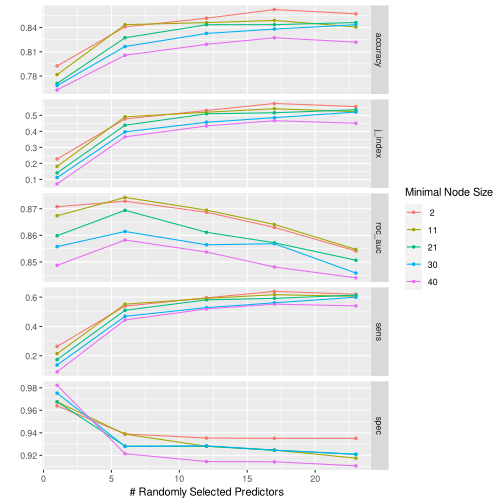
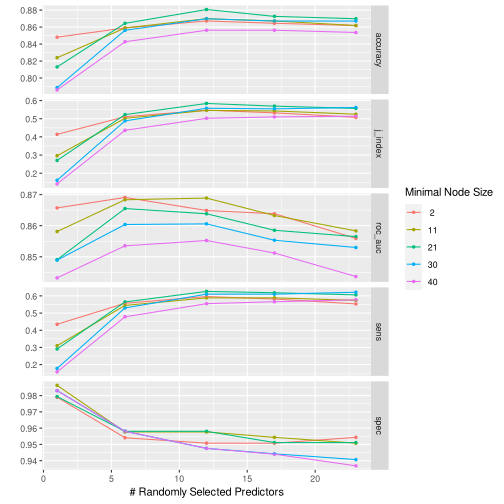
fixed some old files for new data.feather
- visualization/map_plots.Rmd
- tidymodel.r
- random_forest.Rmd, now legit reproducible

Changed region(s): [[0.0298, 0.0, 0.7143, 0.9226], [0.0298, 0.5655, 0.0893, 0.6548]]

diff --git a/random_forest.md b/random_forest.md
@@ -12,7 +12,6 @@ library(magrittr)
 library(skimr)
 library(vip)
 per <- read_feather("data/simulation_data/all_persons.feather")
-set.seed(123)
 ```
 
 Compute some summary statistic for each client.
@@ -47,25 +46,20 @@ zip_data <-
     AREALAND = NULL,
     AREA = NULL,
     HU = NULL,
-    `Percent adults fully vaccinated against COVID-19 (as of 6/10/21)` = NULL,
+    vaccinated = NULL,
     per_lib = NULL,
     per_green = NULL,
     per_other = NULL,
     per_rep = NULL,
-    Unemployment_rate_2020 = NULL,
-    PCTPOVALL_2019 = NULL,
-    `Deaths involving COVID-19` = NULL,
-    `Deaths from All Causes` = NULL
+    unempl_2020 = NULL,
+    poverty = NULL,
+    deaths_covid = NULL,
+    deaths_all = NULL
   ) %>%
   rename(
-    nohs = `less than high school`,
-    hs = `high school`,
-    unemp = Unemployment_rate_2019,
-    hes = `Estimated hesitant`,
-    hes_uns = `Estimated hesitant or unsure`,
-    str_hes = `Estimated strongly hesitant`,
-    svi = `Social Vulnerability Index (SVI)`,
-    cvac = `CVAC level of concern for vaccination rollout`,
+    unemp = unempl_2019,
+    hes_uns = hes_unsure,
+    str_hes = strong_hes,
     income = Median_Household_Income_2019
   )
 ```
@@ -78,14 +72,15 @@ clients %>%
 ```
 
 ```
-## # A tibble: 5 x 1
+## # A tibble: 6 x 1
 ##   zip3 
 ##   <chr>
 ## 1 969  
 ## 2 093  
 ## 3 732  
 ## 4 872  
-## 5 004
+## 5 004  
+## 6 202
 ```
 These correspond to the following areas
 
@@ -96,12 +91,14 @@ ZIP3 | Area       |
 732  | Not in use |
 872  | Not in use |
 004  | Not in use |
+202  | Washington DC, Government 1 |
 
-We ignore clients with these zip codes.
+We ignore clients with these zip codes. There are also two clients in DC for which we're missing election data. We will ignore those as well.
 
 ```r
 clients %<>%
-  inner_join(zip_data, by = "zip3")
+  inner_join(zip_data, by = "zip3") %>%
+  drop_na()
 ```
 
 We now have our full dataset. Behold!
@@ -116,7 +113,7 @@ Table: Data summary
 |                         |        |
 |:------------------------|:-------|
 |Name                     |clients |
-|Number of rows           |495     |
+|Number of rows           |492     |
 |Number of columns        |28      |
 |_______________________  |        |
 |Column type frequency:   |        |
@@ -131,51 +128,51 @@ Table: Data summary
 
 |skim_variable | n_missing| complete_rate| min| max| empty| n_unique| whitespace|
 |:-------------|---------:|-------------:|---:|---:|-----:|--------:|----------:|
-|client        |         0|             1|   1|   3|     0|      495|          0|
-|zip3          |         0|             1|   3|   3|     0|      224|          0|
+|client        |         0|             1|   1|   3|     0|      492|          0|
+|zip3          |         0|             1|   3|   3|     0|      222|          0|
 
 
 **Variable type: factor**
 
 |skim_variable | n_missing| complete_rate|ordered | n_unique|top_counts        |
 |:-------------|---------:|-------------:|:-------|--------:|:-----------------|
-|adverse       |         0|             1|FALSE   |        2|TRU: 449, FAL: 46 |
+|adverse       |         0|             1|FALSE   |        2|TRU: 447, FAL: 45 |
 
 
 **Variable type: numeric**
 
 |skim_variable   | n_missing| complete_rate|         mean|           sd|         p0|          p25|          p50|          p75|         p100|hist  |
 |:---------------|---------:|-------------:|------------:|------------:|----------:|------------:|------------:|------------:|------------:|:-----|
-|ae_2020         |         0|             1|        15.04|        27.39|       0.00|         2.98|         6.46|        14.03| 2.329000e+02|▇▁▁▁▁ |
-|size            |         0|             1|      2779.72|      2363.16|      50.00|      1027.00|      2111.00|      3958.50| 1.427000e+04|▇▃▁▁▁ |
-|volume          |         0|             1| 432334228.18| 405619498.04| 6235075.00| 152306800.00| 334370375.00| 586055025.00| 4.350904e+09|▇▁▁▁▁ |
+|ae_2020         |         0|             1|        15.08|        27.46|       0.00|         2.98|         6.46|        14.09| 2.329000e+02|▇▁▁▁▁ |
+|size            |         0|             1|      2783.93|      2368.37|      50.00|      1026.25|      2120.50|      3969.50| 1.427000e+04|▇▃▁▁▁ |
+|volume          |         0|             1| 432951568.75| 406654465.55| 6235075.00| 151797887.50| 335064812.50| 587443900.00| 4.350904e+09|▇▁▁▁▁ |
 |avg_qx          |         0|             1|         0.00|         0.00|       0.00|         0.00|         0.00|         0.00| 0.000000e+00|▁▇▇▂▁ |
-|avg_age         |         0|             1|        41.56|         2.05|      37.68|        40.11|        41.11|        42.49| 4.865000e+01|▃▇▃▁▁ |
-|per_male        |         0|             1|         0.57|         0.10|       0.22|         0.50|         0.57|         0.64| 8.900000e-01|▁▃▇▅▁ |
+|avg_age         |         0|             1|        41.56|         2.05|      37.68|        40.12|        41.11|        42.49| 4.865000e+01|▃▇▃▁▁ |
+|per_male        |         0|             1|         0.57|         0.10|       0.22|         0.50|         0.56|         0.64| 8.900000e-01|▁▃▇▅▁ |
 |per_blue_collar |         0|             1|         1.00|         0.00|       1.00|         1.00|         1.00|         1.00| 1.000000e+00|▁▁▇▁▁ |
-|expected        |         0|             1|   1075634.02|   1054075.28|   11604.50|    353219.92|    832197.99|   1436637.06| 1.189955e+07|▇▁▁▁▁ |
-|actual_2020     |         0|             1|  15378942.63|  44643400.61|       0.00|   1962875.00|   4556125.00|  13950250.00| 5.232112e+08|▇▁▁▁▁ |
-|nohs            |         0|             1|        11.16|         3.78|       0.00|         8.44|        10.78|        12.88| 2.165000e+01|▁▅▇▂▂ |
-|hs              |         0|             1|        23.67|         7.10|       0.00|        18.30|        23.10|        27.50| 4.680000e+01|▁▃▇▃▁ |
-|college         |         0|             1|        28.34|         5.05|       0.00|        25.60|        28.58|        31.55| 3.980000e+01|▁▁▂▇▃ |
-|bachelor        |         0|             1|        36.64|        10.61|       0.00|        29.98|        35.36|        43.04| 6.130000e+01|▁▂▇▆▃ |
-|R_Birth         |         0|             1|        11.30|         1.28|       0.00|        10.50|        11.20|        12.00| 1.551000e+01|▁▁▁▇▂ |
-|R_death         |         0|             1|         8.12|         1.90|       0.00|         6.80|         7.59|         9.10| 1.401000e+01|▁▁▇▃▁ |
-|unemp           |         0|             1|         3.43|         0.89|       0.00|         2.80|         3.31|         3.89| 6.690000e+00|▁▃▇▂▁ |
-|per_dem         |         0|             1|         0.57|         0.17|       0.00|         0.46|         0.58|         0.71| 8.600000e-01|▁▂▇▇▇ |
-|hes             |         0|             1|         0.09|         0.04|       0.00|         0.06|         0.07|         0.11| 2.600000e-01|▃▇▃▁▁ |
-|hes_uns         |         0|             1|         0.13|         0.05|       0.00|         0.10|         0.12|         0.17| 3.100000e-01|▁▇▅▂▁ |
-|str_hes         |         0|             1|         0.05|         0.03|       0.00|         0.03|         0.04|         0.07| 1.800000e-01|▆▇▅▁▁ |
-|svi             |         0|             1|         0.46|         0.19|       0.00|         0.33|         0.44|         0.59| 9.200000e-01|▂▅▇▃▂ |
-|cvac            |         0|             1|         0.42|         0.21|       0.00|         0.24|         0.41|         0.53| 9.400000e-01|▃▃▇▃▁ |
-|income          |         0|             1|     78940.42|     24119.84|       0.00|     62130.76|     73570.69|     85137.47| 1.352340e+05|▁▁▇▂▂ |
-|POP             |         0|             1|    783315.84|    558192.14|       0.00|    344984.00|    760027.00|    974040.00| 2.906700e+06|▇▇▂▁▁ |
+|expected        |         0|             1|   1076643.68|   1056824.25|   11604.50|    350329.91|    831644.68|   1439648.44| 1.189955e+07|▇▁▁▁▁ |
+|actual_2020     |         0|             1|  15432043.75|  44771997.48|       0.00|   1963387.50|   4525375.00|  13923600.00| 5.232112e+08|▇▁▁▁▁ |
+|nohs            |         0|             1|        11.20|         3.75|       4.00|         8.44|        10.78|        12.90| 2.165000e+01|▂▇▅▁▂ |
+|hs              |         0|             1|        23.75|         7.02|      12.10|        18.90|        23.10|        27.50| 4.680000e+01|▅▇▅▂▁ |
+|college         |         0|             1|        28.45|         4.83|      13.50|        25.60|        28.58|        31.56| 3.980000e+01|▁▃▇▆▂ |
+|bachelor        |         0|             1|        36.62|        10.42|      14.07|        30.00|        35.36|        43.04| 6.130000e+01|▂▇▇▆▂ |
+|R_birth         |         0|             1|        11.31|         1.17|       8.30|        10.50|        11.20|        12.00| 1.551000e+01|▁▇▇▂▁ |
+|R_death         |         0|             1|         8.13|         1.87|       4.69|         6.80|         7.59|         9.13| 1.401000e+01|▃▇▃▂▁ |
+|unemp           |         0|             1|         3.43|         0.87|       2.10|         2.80|         3.31|         3.89| 6.690000e+00|▆▇▃▁▁ |
+|per_dem         |         0|             1|         0.57|         0.16|       0.16|         0.46|         0.58|         0.71| 8.600000e-01|▂▅▇▇▆ |
+|hes             |         0|             1|         0.09|         0.04|       0.04|         0.06|         0.07|         0.11| 2.600000e-01|▇▃▂▁▁ |
+|hes_uns         |         0|             1|         0.13|         0.05|       0.06|         0.10|         0.12|         0.17| 3.100000e-01|▇▆▅▁▁ |
+|str_hes         |         0|             1|         0.05|         0.03|       0.02|         0.03|         0.04|         0.07| 1.800000e-01|▇▅▂▁▁ |
+|svi             |         0|             1|         0.46|         0.19|       0.04|         0.33|         0.44|         0.59| 9.200000e-01|▂▆▇▃▂ |
+|cvac            |         0|             1|         0.42|         0.21|       0.02|         0.24|         0.41|         0.53| 9.400000e-01|▃▅▇▃▁ |
+|income          |         0|             1|     79056.02|     23916.16|   38621.49|     62130.76|     73570.69|     85137.47| 1.352340e+05|▃▇▅▂▂ |
+|POP             |         0|             1|    785665.87|    558640.36|   33245.00|    346048.00|    771280.00|    974040.00| 2.906700e+06|▇▇▂▁▁ |
 |density         |         0|             1|         0.00|         0.00|       0.00|         0.00|         0.00|         0.00| 3.000000e-02|▇▁▁▁▁ |
 
 ## First model
 We will use a random forest using the tidymodels framework.
 
-We start by creating a recipe. We won't use zip3, client ID, actual claims, or ae_2020 as predictors.
+We start by creating a recipe. We won't use zip3, client ID, actual claims, or ae_2020 as predictors. Also, we don't have election data on DC, so we remove those.
 
 ```r
 ranger_recipe <-
@@ -205,6 +202,7 @@ ranger_workflow <-
 Create an initial test-train split
 
 ```r
+set.seed(1111)
 init_split <-
   clients %>%
   initial_split(strata = adverse)
@@ -218,7 +216,7 @@ clients_test %>% count(adverse)
 ##   adverse     n
 ##   <fct>   <int>
 ## 1 FALSE      14
-## 2 TRUE      110
+## 2 TRUE      109
 ```
 
 ```r
@@ -230,8 +228,8 @@ clients_train %>% count(adverse)
 ## # A tibble: 2 x 2
 ##   adverse     n
 ##   <fct>   <int>
-## 1 FALSE      32
-## 2 TRUE      339
+## 1 FALSE      31
+## 2 TRUE      338
 ```
 
 Train the workflow
@@ -254,15 +252,15 @@ Compute the confusion matrix
 
 ```r
 predictions %>%
-  bind_cols(clients_test %>% select(adverse)) %>%
+  bind_cols(clients_test %>% filter(!is.na(per_dem)) %>% select(adverse)) %>%
   conf_mat(adverse, .pred_class)
 ```
 
 ```
 ##           Truth
 ## Prediction FALSE TRUE
-##      FALSE     1    0
-##      TRUE     13  110
+##      FALSE     2    0
+##      TRUE     12  109
 ```
 
 It looks like the the model performs well, but it's basically predicting that all companies will have adverse deaths.
@@ -284,10 +282,10 @@ ranger_last_fit %>% collect_metrics()
 ## # A tibble: 4 x 4
 ##   .metric .estimator .estimate .config             
 ##   <chr>   <chr>          <dbl> <chr>               
-## 1 sens    binary        0.0714 Preprocessor1_Model1
-## 2 spec    binary        1      Preprocessor1_Model1
-## 3 j_index binary        0.0714 Preprocessor1_Model1
-## 4 roc_auc binary        0.910  Preprocessor1_Model1
+## 1 sens    binary         0.143 Preprocessor1_Model1
+## 2 spec    binary         1     Preprocessor1_Model1
+## 3 j_index binary         0.143 Preprocessor1_Model1
+## 4 roc_auc binary         0.872 Preprocessor1_Model1
 ```
 
 ```r
@@ -306,13 +304,13 @@ We will make train the model for more adverse outcomes by using *subsampling*. S
 
 ```r
 library(themis)
+set.seed(222)
 subsample_recipe <-
   ranger_recipe %>%
   step_rose(adverse)
 subsample_workflow <-
   ranger_workflow %>%
   update_recipe(subsample_recipe)
-
 subsample_last_fit <-
   subsample_workflow %>%
   last_fit(
@@ -327,10 +325,10 @@ subsample_last_fit %>% collect_metrics()
 ## # A tibble: 4 x 4
 ##   .metric .estimator .estimate .config             
 ##   <chr>   <chr>          <dbl> <chr>               
-## 1 sens    binary         0.429 Preprocessor1_Model1
-## 2 spec    binary         0.709 Preprocessor1_Model1
-## 3 j_index binary         0.138 Preprocessor1_Model1
-## 4 roc_auc binary         0.619 Preprocessor1_Model1
+## 1 sens    binary         0.571 Preprocessor1_Model1
+## 2 spec    binary         0.899 Preprocessor1_Model1
+## 3 j_index binary         0.471 Preprocessor1_Model1
+## 4 roc_auc binary         0.893 Preprocessor1_Model1
 ```
 
 ```r
@@ -354,7 +352,7 @@ clients$ae_2020 %>% summary()
 
 ```
 ##    Min. 1st Qu.  Median    Mean 3rd Qu.    Max. 
-##   0.000   2.976   6.460  15.036  14.034 232.897
+##   0.000   2.982   6.457  15.084  14.086 232.897
 ```
 
 Let's say that a client experiences adverse deaths if AE > 3, which is about the 1st quartile
@@ -367,6 +365,7 @@ clients %<>%
 We can apply the same workflow as before
 
 ```r
+set.seed(333)
 new_split <-
   clients %>%
   initial_split()
@@ -385,10 +384,10 @@ ranger_last_fit %>% collect_metrics()
 ## # A tibble: 4 x 4
 ##   .metric .estimator .estimate .config             
 ##   <chr>   <chr>          <dbl> <chr>               
-## 1 sens    binary         0.536 Preprocessor1_Model1
-## 2 spec    binary         0.938 Preprocessor1_Model1
-## 3 j_index binary         0.473 Preprocessor1_Model1
-## 4 roc_auc binary         0.872 Preprocessor1_Model1
+## 1 sens    binary         0.538 Preprocessor1_Model1
+## 2 spec    binary         0.959 Preprocessor1_Model1
+## 3 j_index binary         0.497 Preprocessor1_Model1
+## 4 roc_auc binary         0.875 Preprocessor1_Model1
 ```
 
 ```r
@@ -413,12 +412,14 @@ tune_workflow <-
   ranger_workflow %>%
   update_model(tune_spec)
 
+set.seed(444)
 tune_split <- initial_split(clients)
+set.seed(555)
 tune_resamples <-
   vfold_cv(training(tune_split))
 
 param_grid <-
-  grid_regular(mtry(c(1,23)),
+  grid_regular(mtry(c(1, 23)),
                min_n(),
                levels = 5)
 
@@ -435,10 +436,10 @@ autoplot(tune_res)
 
 ![plot of chunk unnamed-chunk-19](figure/unnamed-chunk-19-1.png)
 
-I chose mtry = 17, min_n = 2.
+I chose mtry = 12, min_n = 21.
 
 ```r
-best <- tibble(mtry = 17, min_n = 2)
+best <- tibble(mtry = 12, min_n = 21)
 final_wf <-
   tune_workflow %>%
   finalize_workflow(best)
@@ -458,11 +459,11 @@ final_wf_fit %>%
 ## # A tibble: 5 x 4
 ##   .metric  .estimator .estimate .config             
 ##   <chr>    <chr>          <dbl> <chr>               
-## 1 sens     binary         0.529 Preprocessor1_Model1
-## 2 spec     binary         0.978 Preprocessor1_Model1
-## 3 j_index  binary         0.507 Preprocessor1_Model1
-## 4 accuracy binary         0.855 Preprocessor1_Model1
-## 5 roc_auc  binary         0.845 Preprocessor1_Model1
+## 1 sens     binary         0.487 Preprocessor1_Model1
+## 2 spec     binary         0.964 Preprocessor1_Model1
+## 3 j_index  binary         0.451 Preprocessor1_Model1
+## 4 accuracy binary         0.813 Preprocessor1_Model1
+## 5 roc_auc  binary         0.842 Preprocessor1_Model1
 ```
 
 ```r
@@ -474,6 +475,18 @@ final_wf_fit %>%
 
 ![plot of chunk unnamed-chunk-20](figure/unnamed-chunk-20-1.png)
 
+```r
+final_wf_fit %>%
+  collect_predictions() %>%
+  conf_mat(adverse, .pred_class)
+```
+
+```
+##           Truth
+## Prediction FALSE TRUE
+##      FALSE    19    3
+##      TRUE     20   81
+```
 Cool stuff. How does this compare to logistic regression by month???
 
 We can also check variable importance
